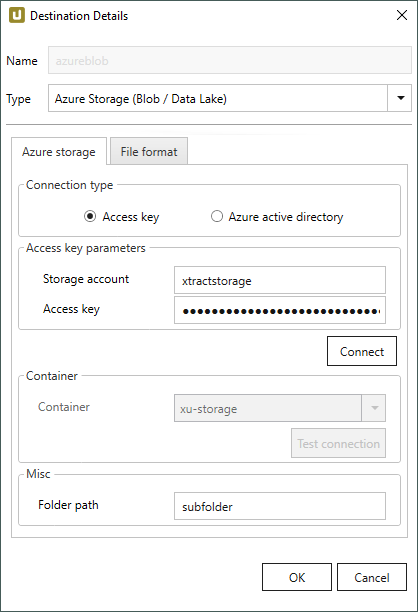
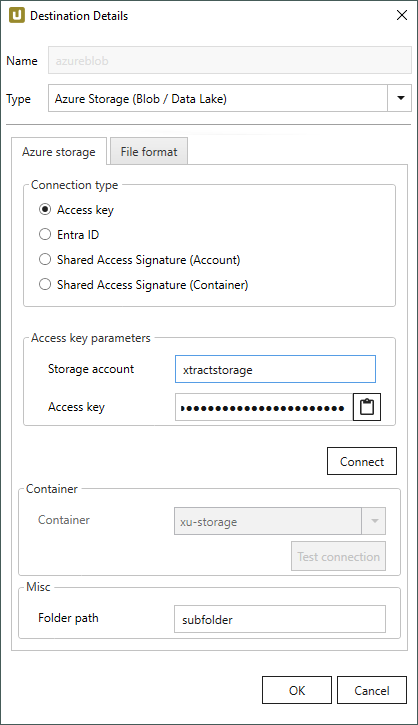
XU azure storage SAS authentication

diff --git a/projects/xtract-universal/docs/documentation/destinations/azure-storage.md b/projects/xtract-universal/docs/documentation/destinations/azure-storage.md
@@ -18,7 +18,7 @@ The Azure Storage (Blob / Data Lake) destination supports the following Azure st
 - BlobStorage
  
 To use the Azure Storage (Blob / Data Lake) destination you need one of the above Azure storage accounts. 
-For more information, see [Microsoft Azure storage documentation](https://docs.microsoft.com/en-us/azure/storage/common/storage-account-overview).
+For more information, see [Microsoft Documentation: Azure storage account overview](https://docs.microsoft.com/en-us/azure/storage/common/storage-account-overview).
 
 
 {% include "destinations/create-destination.md" %}
@@ -30,37 +30,56 @@ For more information, see [Microsoft Azure storage documentation](https://docs.m
 
 ### Connection Type
 
-The subsection *Connection Type* offers two different methods for authenticating and authorizing access to an Azure Storage account:
+The subsection *Connection Type* offers the following methods for authenticating and authorizing access to Azure storage:
 
-<div class="grid cards" markdown>
+- Access Key
+- Entra ID
+- Shared Access Signature
 
--   __Access Key__
+For information on advantages and disadvantages of the different authentication methods, see [Microsoft Documentation: Choosing the right authentication method](https://learn.microsoft.com/en-us/azure/storage/common/storage-explorer-security)
 
-    ---
-
-    This method of authentication authorizes access to the complete storage account. 
-	For more information, see [Microsoft documentation](https://docs.microsoft.com/en-us/azure/storage/common/storage-account-keys-manage). 
+#### Access Key
+This method of authentication authorizes access to the complete storage account. 
+For more information, see [Microsoft documentation](https://docs.microsoft.com/en-us/azure/storage/common/storage-account-keys-manage). 
 	
+#### Entra ID
 
--   __Azure Active Directory__
+This method of authentication uses OAuth 2.0 and [Microsoft Entra ID](https://learn.microsoft.com/en-us/rest/api/storageservices/authorize-with-azure-active-directory) (formerly Microsoft Entra ID) for authentication. 
+With this option access rights can be granted on storage account or container level. 
+For more information, see [Knowledge Base Article: Authentication via Microsoft Entra ID for Azure Storage](../../knowledge-base/authentication-via-entra-id-with-azure-storage.md).
 
-    ---
 
-    Authentication via Azure Active Directory uses OAuth 2.0 and Azure AD for authentication. 
-	With this option access rights can be granted on storage account or container level. 
-	For more information, see [Knowledge Base Article: Authentication via Azure Active Directory for Azure Storage](../../knowledge-base/authentication-via-azure-ad-with-azure-storage.md).
+[Microsoft Documentation: Authorize with Microsoft Entra ID](https://learn.microsoft.com/en-us/rest/api/storageservices/authorize-with-azure-active-directory)
 
-</div>
+#### Shared Access Signature (Account)
+This method of authentication uses Shared Access Signatures (SAS) to access the complete storage account.
+
+#### Shared Access Signature (Container)
+This method of authentication uses Shared Access Signatures (SAS) to access a specific storage container.
+For more information, see [Microsoft Documentation: Create SAS tokens for storage containers](https://learn.microsoft.com/en-us/azure/ai-services/document-intelligence/create-sas-tokens?view=doc-intel-4.0.0#use-the-azure-portal)
+	
+!!! note
+	The following permissions are required when using Shared Access Signature (SAS):
+	<div class="mdx-columns" markdown>
+
+	- Add
+	- Create
+	- Write
+	- Delete
+	- List
+
+	</div>
+
 
 <!---
 Removed according to Bharat
 
-#### Prerequisites for Authentication via Azure Active Directory
+#### Prerequisites for Authentication via Microsoft Entra ID
 
-Authentication via Azure Active Directory requires an Azure AD tenant. How to set up an Azure AD tenant is described in the [Microsoft documentation](https://docs.microsoft.com/en-us/azure/active-directory/develop/quickstart-create-new-tenant). <br>
-Before using authentication via Azure Active Directory, perform the following steps in the Azure Portal:
+Authentication via Microsoft Entra ID requires an Azure AD tenant. How to set up an Azure AD tenant is described in the [Microsoft documentation](https://docs.microsoft.com/en-us/azure/active-directory/develop/quickstart-create-new-tenant). <br>
+Before using authentication via Microsoft Entra ID, perform the following steps in the Azure Portal:
 
-1. In the Azure Portal, open the *Azure Active Directory* service.
+1. In the Azure Portal, open the *Microsoft Entra ID* service.
 2. Register an app with your Azure AD tenant. To do this, follow the steps as described in the [Microsoft documentation](https://docs.microsoft.com/en-us/azure/storage/common/storage-auth-aad-app#register-your-application-with-an-azure-ad-tenant). 
 Register the app as *Public client/native (mobile & desktop)*.
 3. Add *API permissions* to the registered app to grant access to the Azure Storage web API. The following permissions are required:
@@ -80,53 +99,90 @@ The required RBAC role is *Storage Blob Data Contributor*.<br>
 ![xu-azure-blob-con-2](../../assets/images/xu/documentation/destinations/azure-storage/xu-azure-blob-con_2.png){:class="img-responsive"}
 -->
 	
-### Access Key Parameters
+### Access Key Parameters / SAS Parameters
 
-The input fields in the subsection *Access key parameters* vary depending on the selected authentication method.
+The input fields in the subsection *Access key parameters* / *SAS parameters* vary depending on the selected connection type.
 
-=== "Authentication via Access Key"
+=== "Access Key"
 
-	| Input Field | Description |
-	|-------------|--------------|
-	| **Storage account** |	Enter your storage account name. Do not enter the full URL. |
-	| **Access key** | Enter the access key of the Azure Storage account. |
+	#### Storage account
+	Enter your storage account name. Do not enter the full URL. 
 	
-	You can copy the storage account name and access key from the [Azure Portal](https://docs.microsoft.com/en-us/azure/storage/common/storage-account-keys-manage?toc=/azure/storage/blobs/toc.json#view-access-keys-and-connection-string).<br>
-	![xu-azure-blob-con](../../assets/images/xu/documentation/destinations/azure-storage/xu-azure-blob-con.png){:class="img-responsive"}
+	#### Access key
+	Enter the access key of the Azure Storage account. 
+	
+	!!! tip
+		You can copy the storage account name and access key from the [Azure Portal](https://docs.microsoft.com/en-us/azure/storage/common/storage-account-keys-manage?toc=/azure/storage/blobs/toc.json#view-access-keys-and-connection-string).<br>
+		![xu-azure-blob-con](../../assets/images/xu/documentation/destinations/azure-storage/xu-azure-blob-con.png){:class="img-responsive"}
 
 	#### Connect
 	Click **[Connect]** to establish a connection to the storage account. 
 	If the connection is successful, a "Connection successful" info window opens.
 
-=== "Authentication via Azure Active Directory"
-	
-	!!! note
-		Make sure to correctly set up authentication via Azure Active Directory in Azure, see [Knowledge Base Article: Authentication via Azure Active Directory for Azure Storage](../../knowledge-base/authentication-via-azure-ad-with-azure-storage.md).
+=== "Entra ID"
 		
-	| Input Field | Description |
-	|-------------|--------------|
-	| **Storage account** |	Enter your storage account name. |
-	| **Tenant ID** | Enter the ID of the Azure AD tenant. |
-	| **Client ID** | Enter the ID of the registered app. |
+	#### Storage account
+	Enter your storage account name. 
+	
+	#### Tenant ID
+	Enter the ID of the Azure AD tenant. 
+	
+	#### Client ID
+	Enter the ID of the registered app. 
 
-	You copy the tenant ID and client ID from the Azure portal.<br>
-	![xu-azure-blob-con-3](../../assets/images/xu/documentation/destinations/azure-storage/xu-azure-blob-con_3.png){:class="img-responsive"}
+	!!! tip
+		You can copy the tenant ID and client ID from the Azure portal.<br>
+		![xu-azure-blob-con-3](../../assets/images/xu/documentation/destinations/azure-storage/xu-azure-blob-con_3.png){:class="img-responsive"}
 	
 	#### Connect
 	
 	Click **[Connect]** to establish a connection to the storage account. 
 	A browser window pops up, where you have to sign in using your Azure AD credentials.
-	The "Permissions requested" window lists the requested permissions, see [Knowledge Base Article: Authentication via Azure Active Directory](../../knowledge-base/authentication-via-azure-ad-with-azure-storage.md). 
+	The "Permissions requested" window lists the requested permissions, see [Knowledge Base Article: Authentication via Microsoft Entra ID](../../knowledge-base/authentication-via-entra-id-with-azure-storage.md). 
 	Click **[Accept]**. If the connection is successful, a "Connection successful" info window opens. <br>
 
 	![xu-azure-blob-con-4](../../assets/images/xu/documentation/destinations/azure-storage/xu-azure-blob-con_4.png){:class="img-responsive"}
+
+=== "Shared Access Signature (Account)"
+
+	#### Storage account
+	Enter your storage account name. Do not enter the full URL.
+	
+	#### SAS token
+	Enter the SAS token at the Azure Storage container level. 
+	
+	!!! tip
+		You can copy the SAS token from the Azure portal (**Storage accounts > [account_name] > Security + networking > Shared access signature**).
+		
+	#### Connect
+	Click **[Connect]** to establish a connection to the storage account. 
+	If the connection is successful, you can select an existing container from the drop down list **Container**.
+
+	
+=== "Shared Access Signature (Container)"
+
+	#### Storage account
+	Enter your storage account name. Do not enter the full URL.
+	
+	#### Container
+	Enter the name of an existing Azure storage container.
+	
+	#### SAS token
+	Enter the SAS token generated at the Azure Storage container level. 
+
+	!!! tip
+		You can copy the SAS token from the Azure portal (**Storage accounts > [account_name] > Data storage > Containers > [account_name] > Generate SAS**).
+		
+	#### Connect
+	Click **[Connect]** to establish a connection to the storage account. 
 
 	
 ### Container 
 This subsection is activated after a connection to the storage account was successfully established.<br>
 
-- When using Access Key authentication, choose a Blob container from the drop-down menu.
-- When using Azure Active Directory authentication, enter the name of the Blob container manually.
+- When using Access Key authentication, select a Blob container from the drop-down list.
+- When using Entry ID authentication, enter the name of the Blob container manually.
+- When using Shared Access Signature (Account) authentication, select a Blob container from the drop-down list.
 
 #### Test connection
 Click **[Test Connection]** to check if the storage container can be accessed. <br>
@@ -249,5 +305,5 @@ The following YouTube tutorial shows how to set up Xtract Universal with the Azu
 ****
 
 ## Related Links
-- [Knowledge Base Article: Authentication via Azure Active Directory for Azure Storage](../../knowledge-base/authentication-via-azure-ad-with-azure-storage.md)
+- [Knowledge Base Article: Authentication via Microsoft Entra ID for Azure Storage](../../knowledge-base/authentication-via-entra-id-with-azure-storage.md)
 - [Integration via Azure Data Factory](../execute-and-automate/call-via-etl.md#integration-via-azure-data-factory)

diff --git a/projects/xtract-universal/docs/knowledge-base/authentication-via-entra-id-with-azure-storage.md b/projects/xtract-universal/docs/knowledge-base/authentication-via-entra-id-with-azure-storage.md
@@ -1,21 +1,21 @@
 ---
-title: Authentication via Azure Active Directory for Azure Storage
-description: Authentication via Azure Active Directory for Azure Storage
+title: Authentication via Microsoft Entra ID for Azure Storage
+description: Authentication via Microsoft Entra ID for Azure Storage
 ---
 
-The following article shows how to connect to the Azure Storage destination using Authentication via Azure Active Directory.
+The following article shows how to connect to the Azure Storage destination using Authentication via Microsoft Entra ID (formerly Azure Active Directory).
 The article leads you through the following process:
 
-1. Register a new app with your Azure AD tenant.
+1. Register a new app with your Entra ID tenant.
 2. Assign access rights for the new app in Azure Storage using the Storage Blob Data Contributor role.
-3. In {{ productName }}, connect to Azure Storage using the Azure Active Directory method.
+3. In {{ productName }}, connect to Azure Storage using the Microsoft Entra ID method.
 
 ### App Registration
 
-Follow the steps below to register a new app with your Azure AD tenant:
+Follow the steps below to register a new app with your Entra ID tenant:
 
 1. Open the Azure portal and navigate to **App Registrations**.
-2. Click **[New registration]** to register a new app with your Azure AD tenant. <br>
+2. Click **[New registration]** to register a new app with your Entra ID tenant. <br>
 ![azure-app-new-registration](../assets/images/xu/articles/azure-storage/azure-app-new-registration.png){:class="img-responsive"}
 3. Enter the name of the application.
 4. In the Redirect UI section, select *Public Client /native (mobile and desktop)* and assign `https://login.microsoftonline.com/common/oauth2/nativeclient` as the redirect URI.
@@ -42,7 +42,7 @@ Follow the steps below to assign access rights for the [new Azure app](#app-regi
 
 ### Connect to Azure Storage
 
-Follow the steps below to connect {{ productName }} to the Azure Storage destination using Authentication via Azure Active Directory:
+Follow the steps below to connect {{ productName }} to the Azure Storage destination using Authentication via Microsoft Entra ID:
 
 1. Open {{ productName }} and create a new Azure Storage destination or edit an existing destination.
 2. Select the connection type **Azure active directory**. 

diff --git a/projects/xtract-universal/docs/knowledge-base/index.md b/projects/xtract-universal/docs/knowledge-base/index.md
@@ -69,7 +69,7 @@ The following articles refer to specific [destinations](../documentation/destina
 
 <div class="mdx-columns" markdown>
 
-- [ Authentication via Azure Active Directory for Azure Storage](authentication-via-azure-ad-with-azure-storage.md)
+- [Authentication via Microsoft Entra ID for Azure Storage](authentication-via-entra-id-with-azure-storage.md)
 - [Integration in Azure Data Factory using Commandline](adf-integration-using-command-line.md)
 - [Integration in Azure Data Factory using Webservices](adf-integration-using-webservices.md)
 - [Call Dynamic Extractions with Variables in ADF](call-dynamic-extractions-with-variables-in-adf.md)

diff --git a/includes/version-history/XtractUniversal.md b/includes/version-history/XtractUniversal.md
@@ -467,7 +467,7 @@
 |4.10.0 [L]|2020-04-27|Destinations|Added Parquet destination|
 |4.9.5 [L]|2020-04-27|Designer|Fix for disconnect designer|
 |4.9.4 [L]|2020-04-23|General|Increased RFC network timeouts to 5 seconds|
-|4.9.3 [L]|2020-04-23|Destinations|Azure Storage destination now support authentication with Azure Active Directory|
+|4.9.3 [L]|2020-04-23|Destinations|Azure Storage destination now support authentication with Microsoft Entra ID|
 |4.9.2 [L]|2020-04-22|Designer|Fix for quit button in connect window|
 |4.9.1 [L]|2020-04-21|Designer|Extraction filter window migration to WPF|
 |4.9.0 [L]|2020-04-20|Designer|Main window migration to WPF|

diff --git a/projects/xtract-universal/docs/documentation/destinations/amazon-aws-s3.md b/projects/xtract-universal/docs/documentation/destinations/amazon-aws-s3.md
@@ -56,6 +56,8 @@ When this option is active, {{ productName }} connects to Amazon S3 using a URL 
 
 #### Use VPC Endpoint
 When this option is active, {{ productName }} connects to Amazon S3 using a [Virtual Private Cloud (VPC) endpoint](https://docs.aws.amazon.com/AmazonS3/latest/userguide/privatelink-interface-endpoints.html).
+This option requires {{ productName }} to run on an AWS VPC instance.
+
 Enter the VPC endpoint in the field **VPC endpoint**, e.g., `http://bucket.vpce-0123456789abcdefg-hijklmno.s3.us-east-1.vpce.amazonaws.com`.
 
 ### Authenthication

diff --git a/projects/xtract-universal/docs/documentation/organize-extractions.md b/projects/xtract-universal/docs/documentation/organize-extractions.md
@@ -1,7 +1,6 @@
 ---
 title: Organize Extractions
 description: How to group extractions
-status: new
 ---
 
 This page shows how to organize extractions in groups to improve maintenance.
